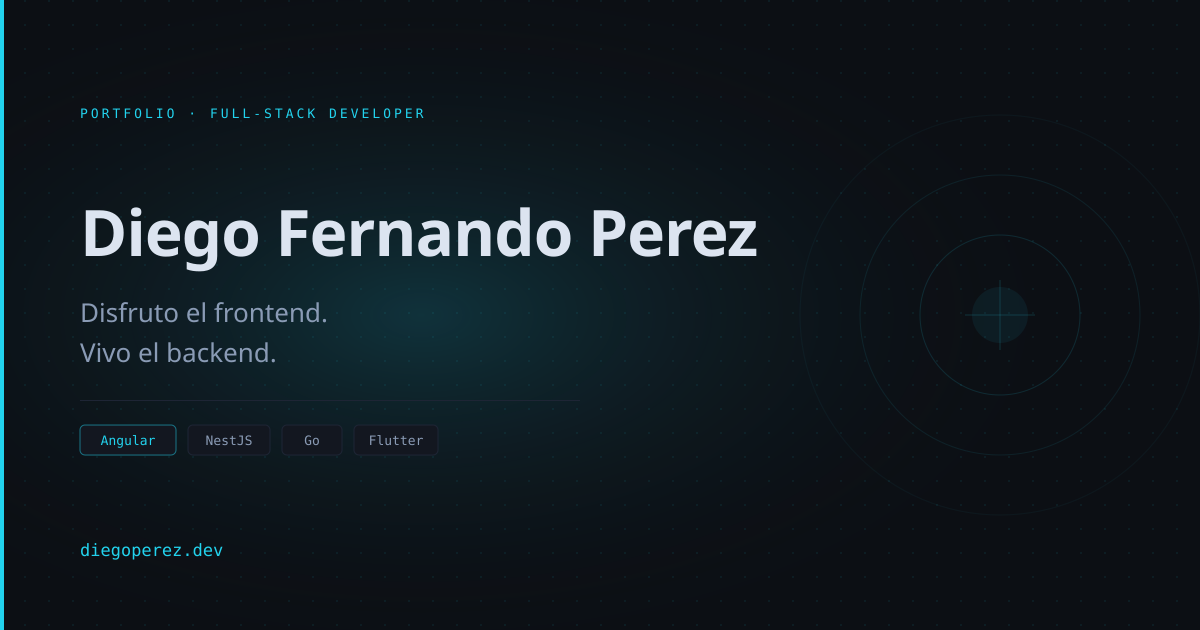
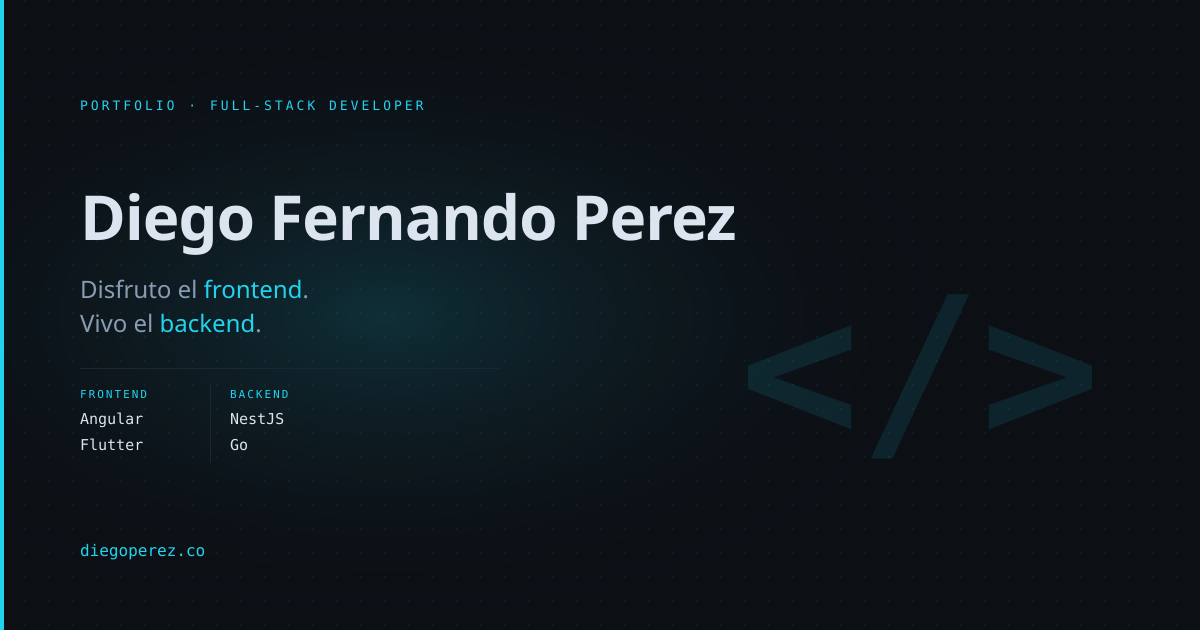
feat: OG image rediseñada y dominio actualizado a diegoperez.co
- OG image: tipografía consistente, keywords frontend/backend en cyan,
  decoración </> en zona derecha, columnas FRONTEND/BACKEND separadas
- Dominio: diegoperez.dev → diegoperez.co en config, layouts, robots.txt
  y roadmap

diff --git a/docs/05-roadmap.md b/docs/05-roadmap.md
@@ -5,7 +5,7 @@
 - [x] Definir estructura de rutas.
 - [x] Elegir stack técnico.
 - [x] Definir flujo de contenido.
-- [x] Elegir nombre + dominio → `diegoperez.dev`
+- [x] Elegir nombre + dominio → `diegoperez.co`
 - [x] Definir 3 proyectos a documentar → ver `docs/04-flujo-contenido.md`
 
 ## v0.2 — Andamiaje ✓
@@ -30,7 +30,7 @@
 - [x] SEO: sitemap, robots.txt, meta tags, canonical.
 - [x] Lighthouse 100/100/100/100 desktop, 98 mobile.
 - [x] Deploy a Cloudflare Pages → `diegoperez-dev.pages.dev`
-- [ ] Conectar dominio `diegoperez.dev` (pendiente compra).
+- [ ] Conectar dominio `diegoperez.co` (pendiente compra).
 - [ ] Verificar en Google Search Console (pendiente dominio).
 
 ## v0.5 — Rediseño visual ✓
@@ -57,7 +57,7 @@
 - [ ] Métricas concretas en casos de estudio (números, volumen, tiempo).
 - [ ] Anuncio en LinkedIn.
 - [ ] Añadir link en GitHub profile y firma de email.
-- [ ] Conectar dominio `diegoperez.dev`.
+- [ ] Conectar dominio `diegoperez.co`.
 
 ## v1.1+ (futuro)
 - [ ] Referencia a Claude en footer o página about.
